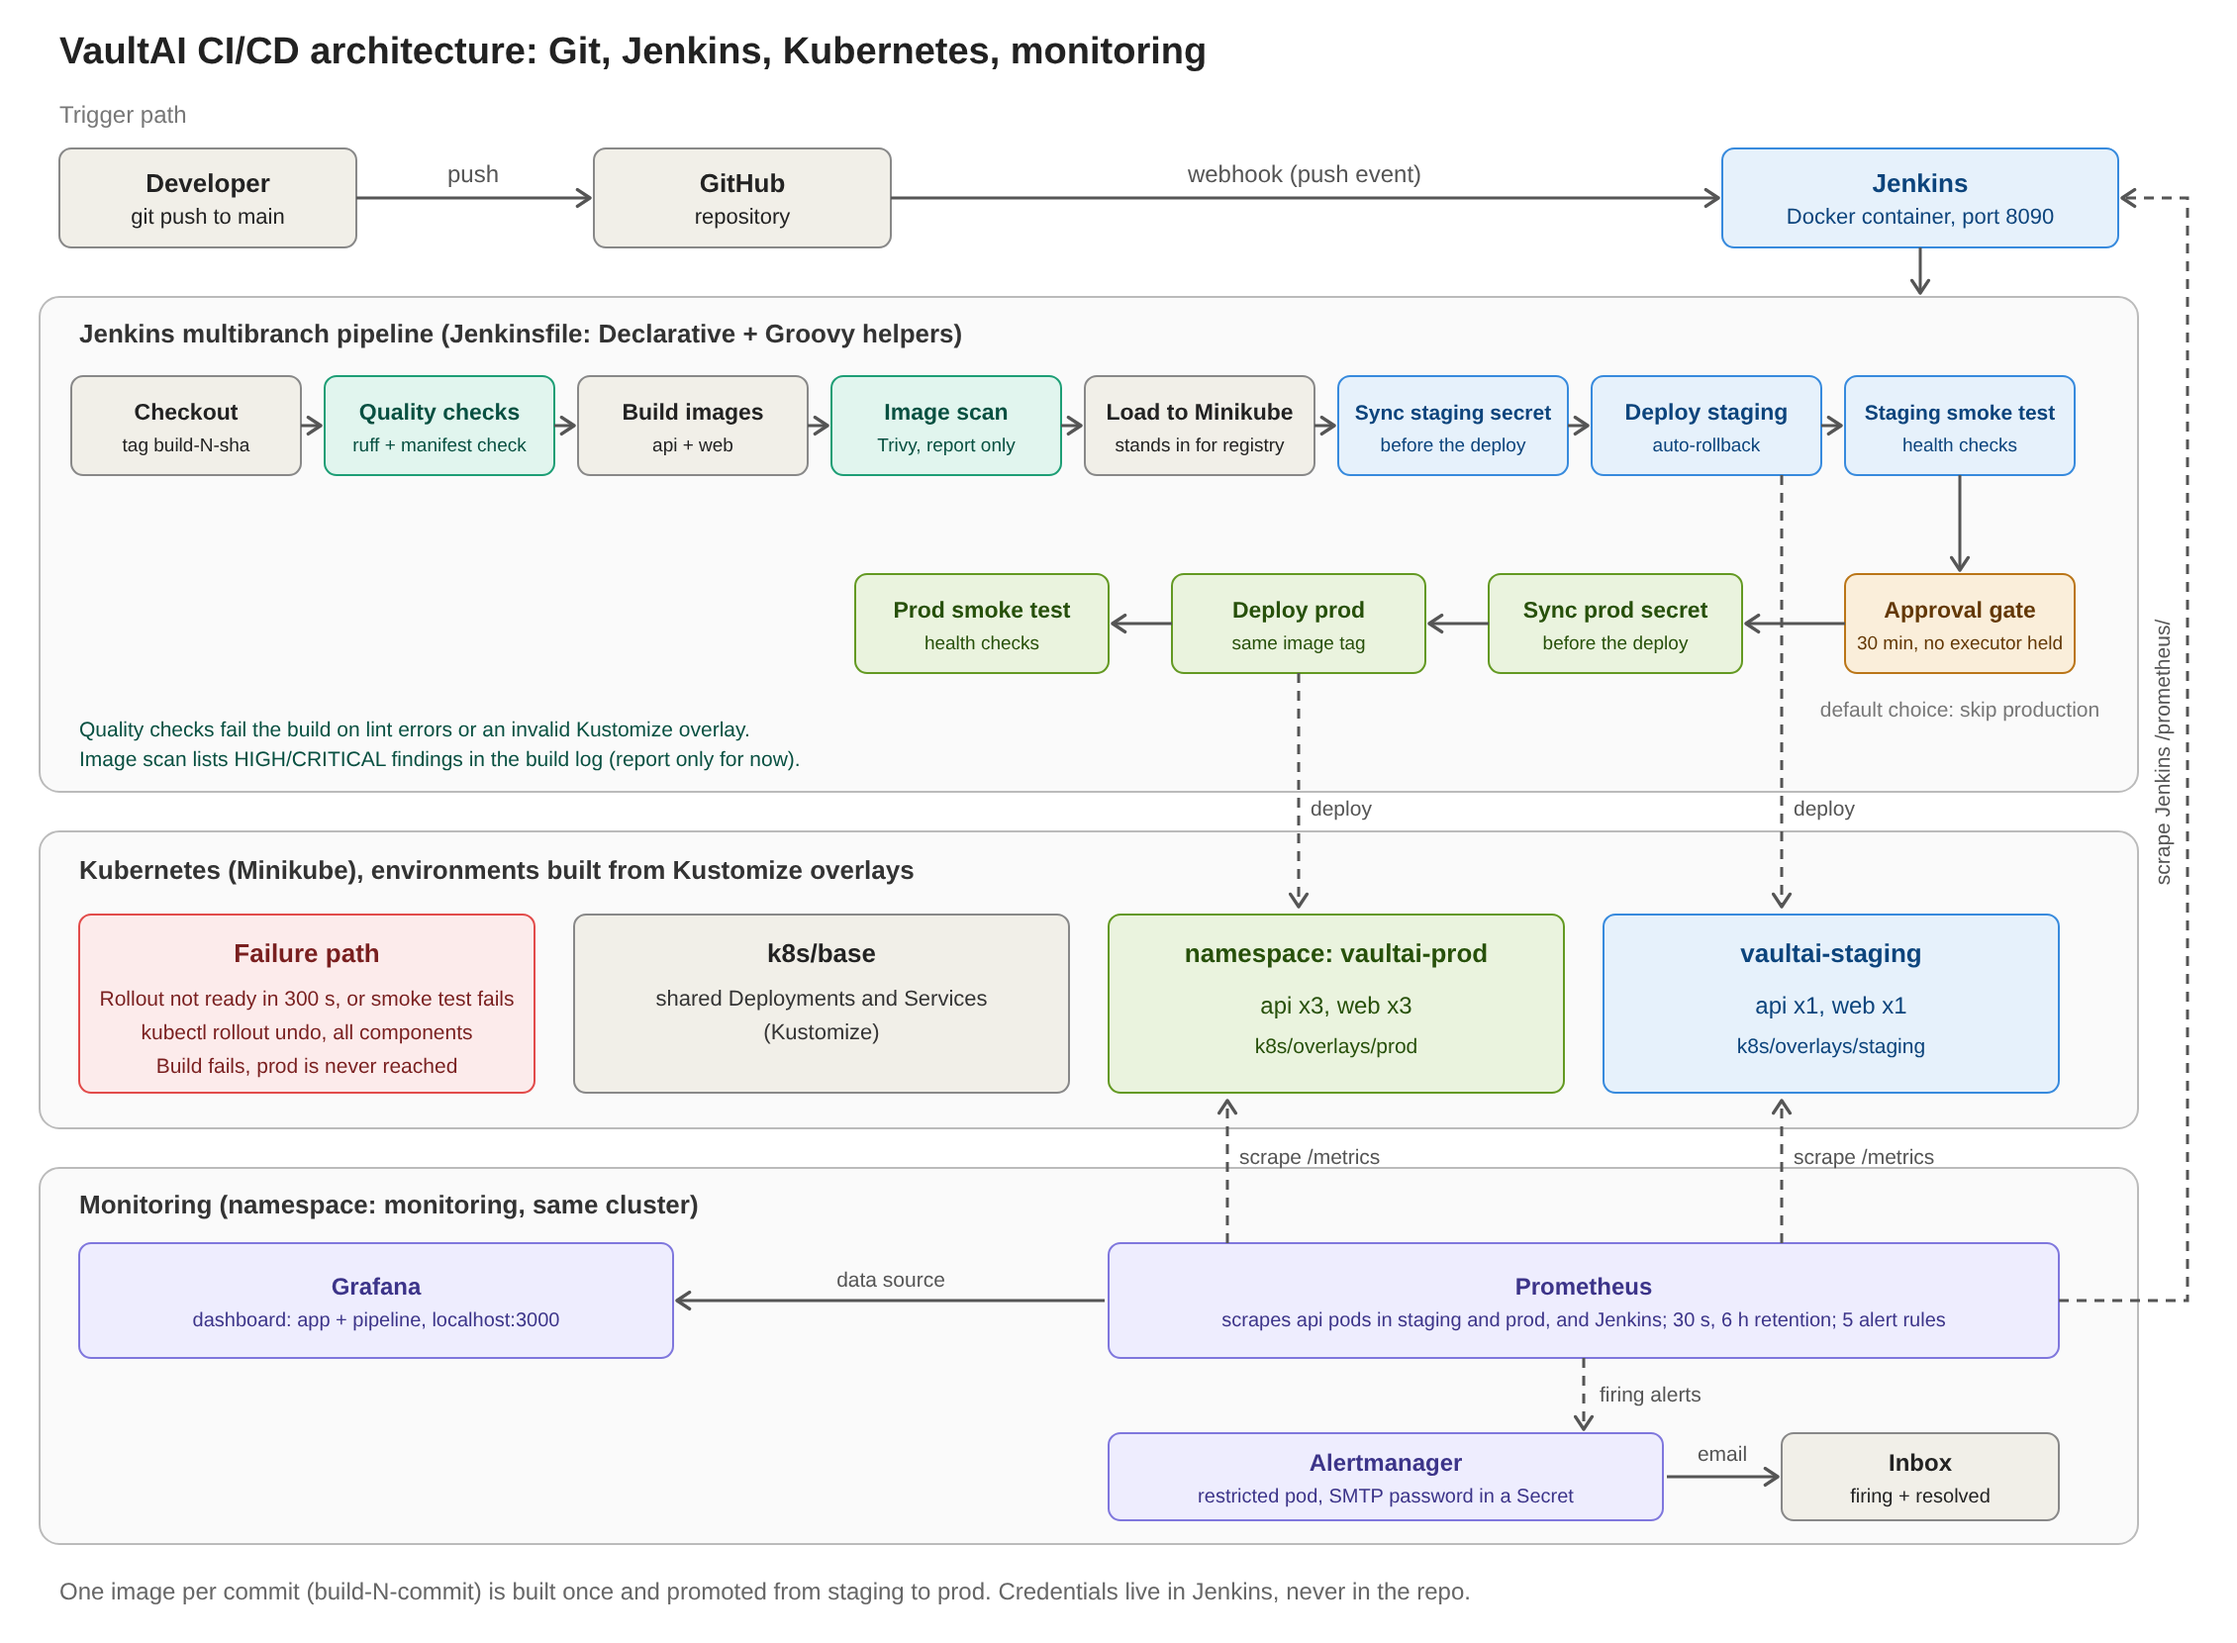
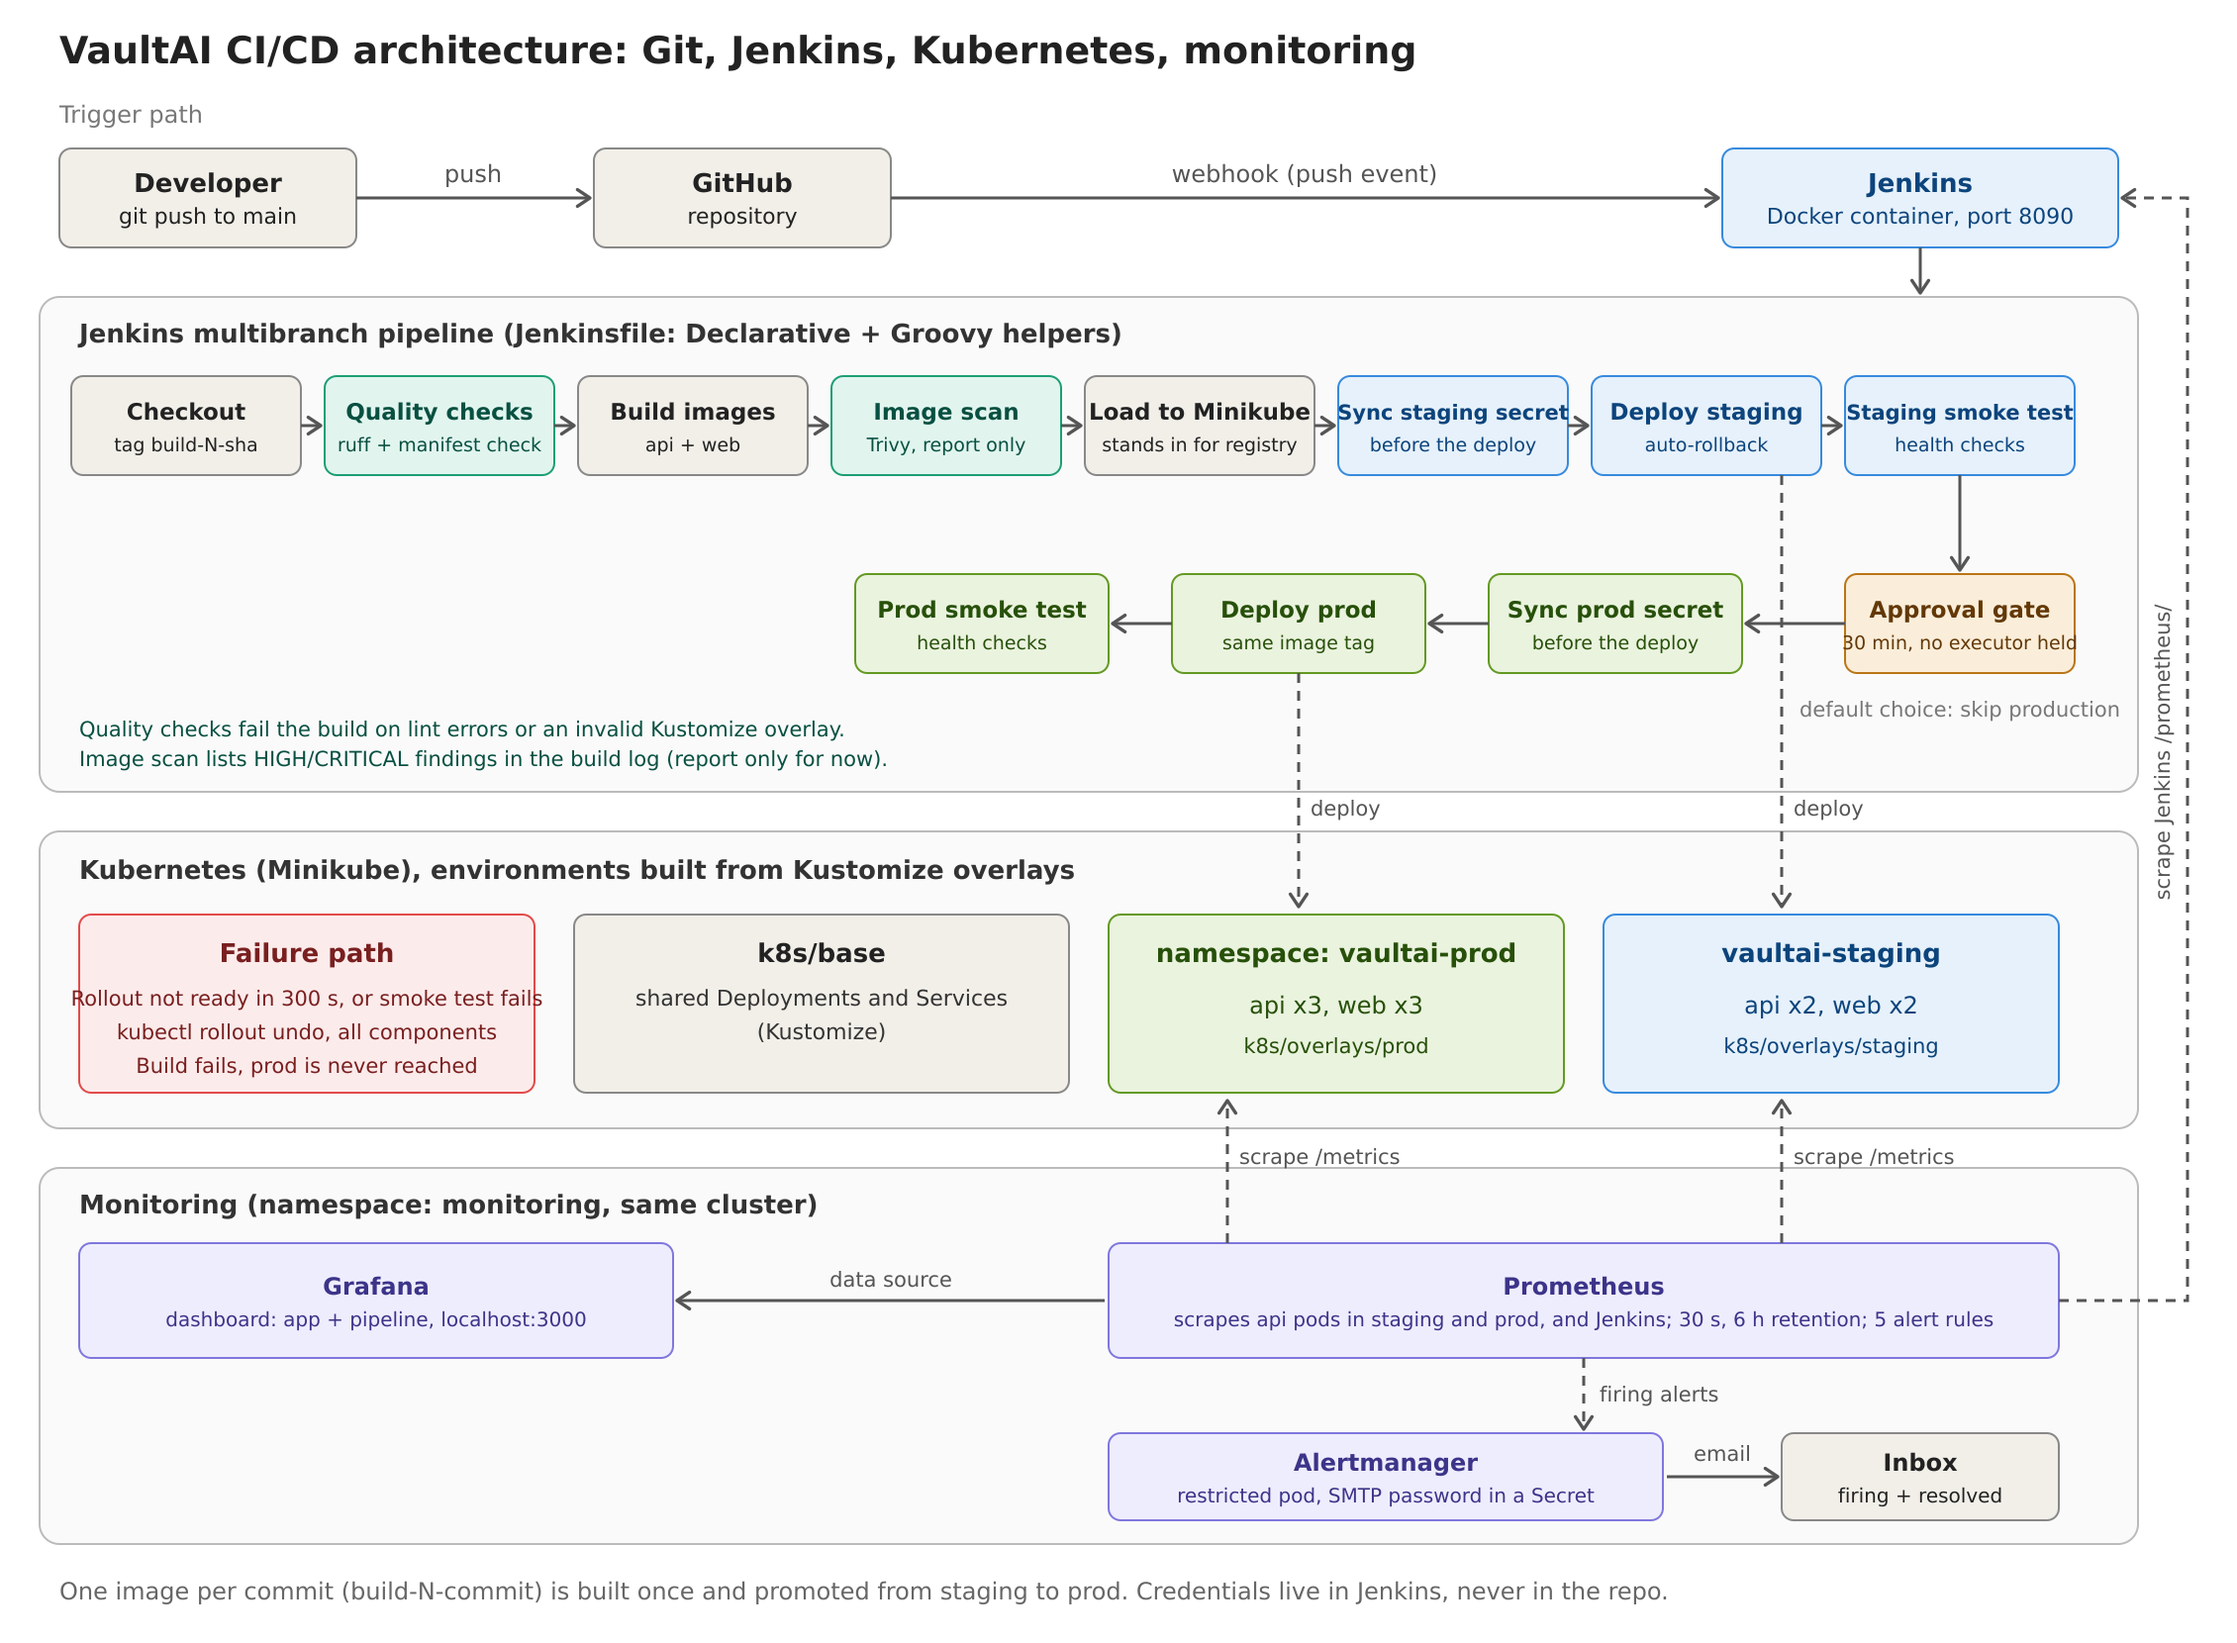
Staging: 2 replicas per service; update README and diagram

diff --git a/README.md b/README.md
@@ -109,7 +109,7 @@ nginx/default.conf       nginx config, including the API proxy
 k8s/base/                shared Deployments and Services
 k8s/rbac/                namespace-scoped RBAC for the Jenkins deployer (staging, prod)
 docs/screenshots/        evidence screenshots used in this README
-k8s/overlays/staging/    namespace vaultai-staging, 1 replica
+k8s/overlays/staging/    namespace vaultai-staging, 2 replicas
 k8s/overlays/prod/       namespace vaultai-prod, 3 replicas, higher API limits
 jenkins/Dockerfile       Jenkins image with the docker CLI and kubectl added
 jenkins/install-ci-tools.sh  puts ruff and the Trivy database into the running Jenkins container
@@ -310,7 +310,7 @@ To repeat the rollback test, break the probe path in `k8s/base/api-deployment.ya
 
 - Rolling updates use `maxUnavailable: 0` and `maxSurge: 1`, with `progressDeadlineSeconds: 300`, so capacity never drops during a release.
 - Each container has startup, readiness and liveness probes with 5 second timeouts.
-- The pipeline waits up to 300 seconds for each rollout and runs `kubectl rollout undo` automatically if it fails. Staging runs 1 replica per service and prod runs 3, to suit the small local cluster.
+- The pipeline waits up to 300 seconds for each rollout and runs `kubectl rollout undo` automatically if it fails. Staging runs 2 replicas per service and prod runs 3.
 - Quality gates: `ruff`, a non-blocking `pip-audit` (120 second cap), manifest validation with `kubectl kustomize`, and a Trivy image scan.
 
 ## Monitoring and logging
